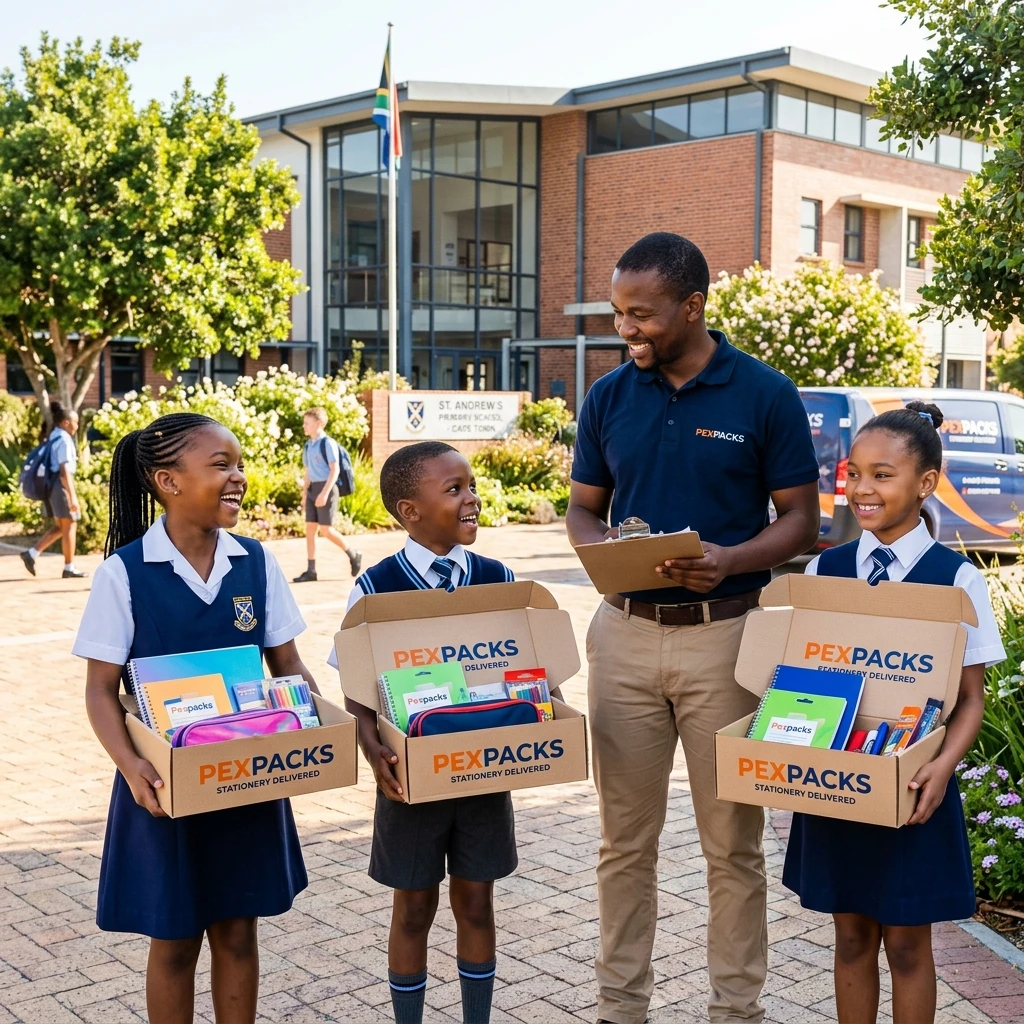
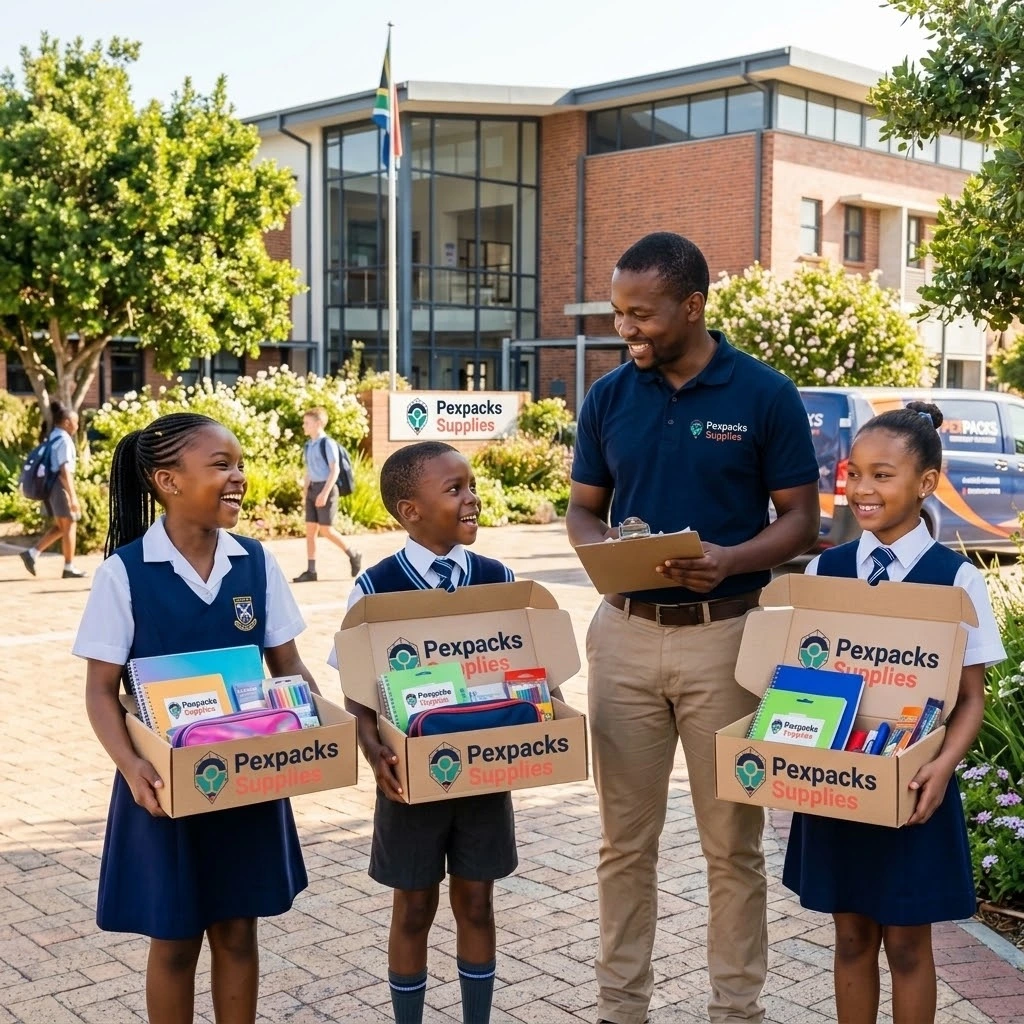
push

diff --git a/app/page.tsx b/app/page.tsx
@@ -58,8 +58,8 @@ export default async function HomePage() {
           <div className={heroStyles.heroVisual}>
             <span className={heroStyles.heroVisualImage}>
               <Image
-                src="/images/hero-school-delivery-packs.webp"
-                alt="Pexpacks Stationery Box"
+                src="/images/hero-school-stationery-delivery.webp"
+                alt="Pexpacks Stationery Delivery Packs"
                 fill
                 priority
                 placeholder="blur"

diff --git a/docs/database-webapp-synchronization-audit-2026-09-13.md b/docs/database-webapp-synchronization-audit-2026-09-13.md
@@ -257,3 +257,15 @@ Migration `00122_consolidate_high_traffic_rls_policies.sql` applies the first ro
 - `db:preflight` passed after deployment. The public RPC smoke reported database execution times of 2.9 ms for `get_public_school_pack` and 1 ms for `search_public_schools`; external wall time includes network and REST overhead.
 
 The remaining `multiple_permissive_policies` advisor findings are now limited to lower-traffic administrative tables. They must be consolidated in small groups only after their reader/manager role matrix has been proved, because a policy warning is not evidence that the policies are redundant.
+## Complete RLS Policy Consolidation
+
+Migrations `00123_consolidate_administrative_rls_policies.sql` and `00124_consolidate_public_and_archive_rls_policies.sql` complete the reviewed policy consolidation:
+
+- The 22 standard administrative manager/read pairs now use one combined authenticated read policy and explicit manager-only mutation policies.
+- Published blog posts remain public, while drafts remain limited to staff or delegated content viewers. Blog mutations still require staff or `content.edit`.
+- Archived order events remain read-only to authenticated audit/order viewers; service-role write access is unchanged.
+- Public settings remain limited to `is_public = true` and `is_sensitive = false`; staff settings management and service-role access remain unchanged.
+- The linked Supabase performance advisor and schema linter now report no findings. This removes the final `multiple_permissive_policies` warning set without changing public data exposure or mutation permissions.
+- Post-deployment verification passed: 52 test files / 260 tests, TypeScript, migration preflight, public read-model smoke, and no critical sequential scans.
+
+The only deployment gate outside the database remains configuring Upstash credentials in Vercel for distributed cross-instance rate limiting. The application remains functional without them, but peak-traffic rate limits are not globally coordinated until those two encrypted environment variables are set.
